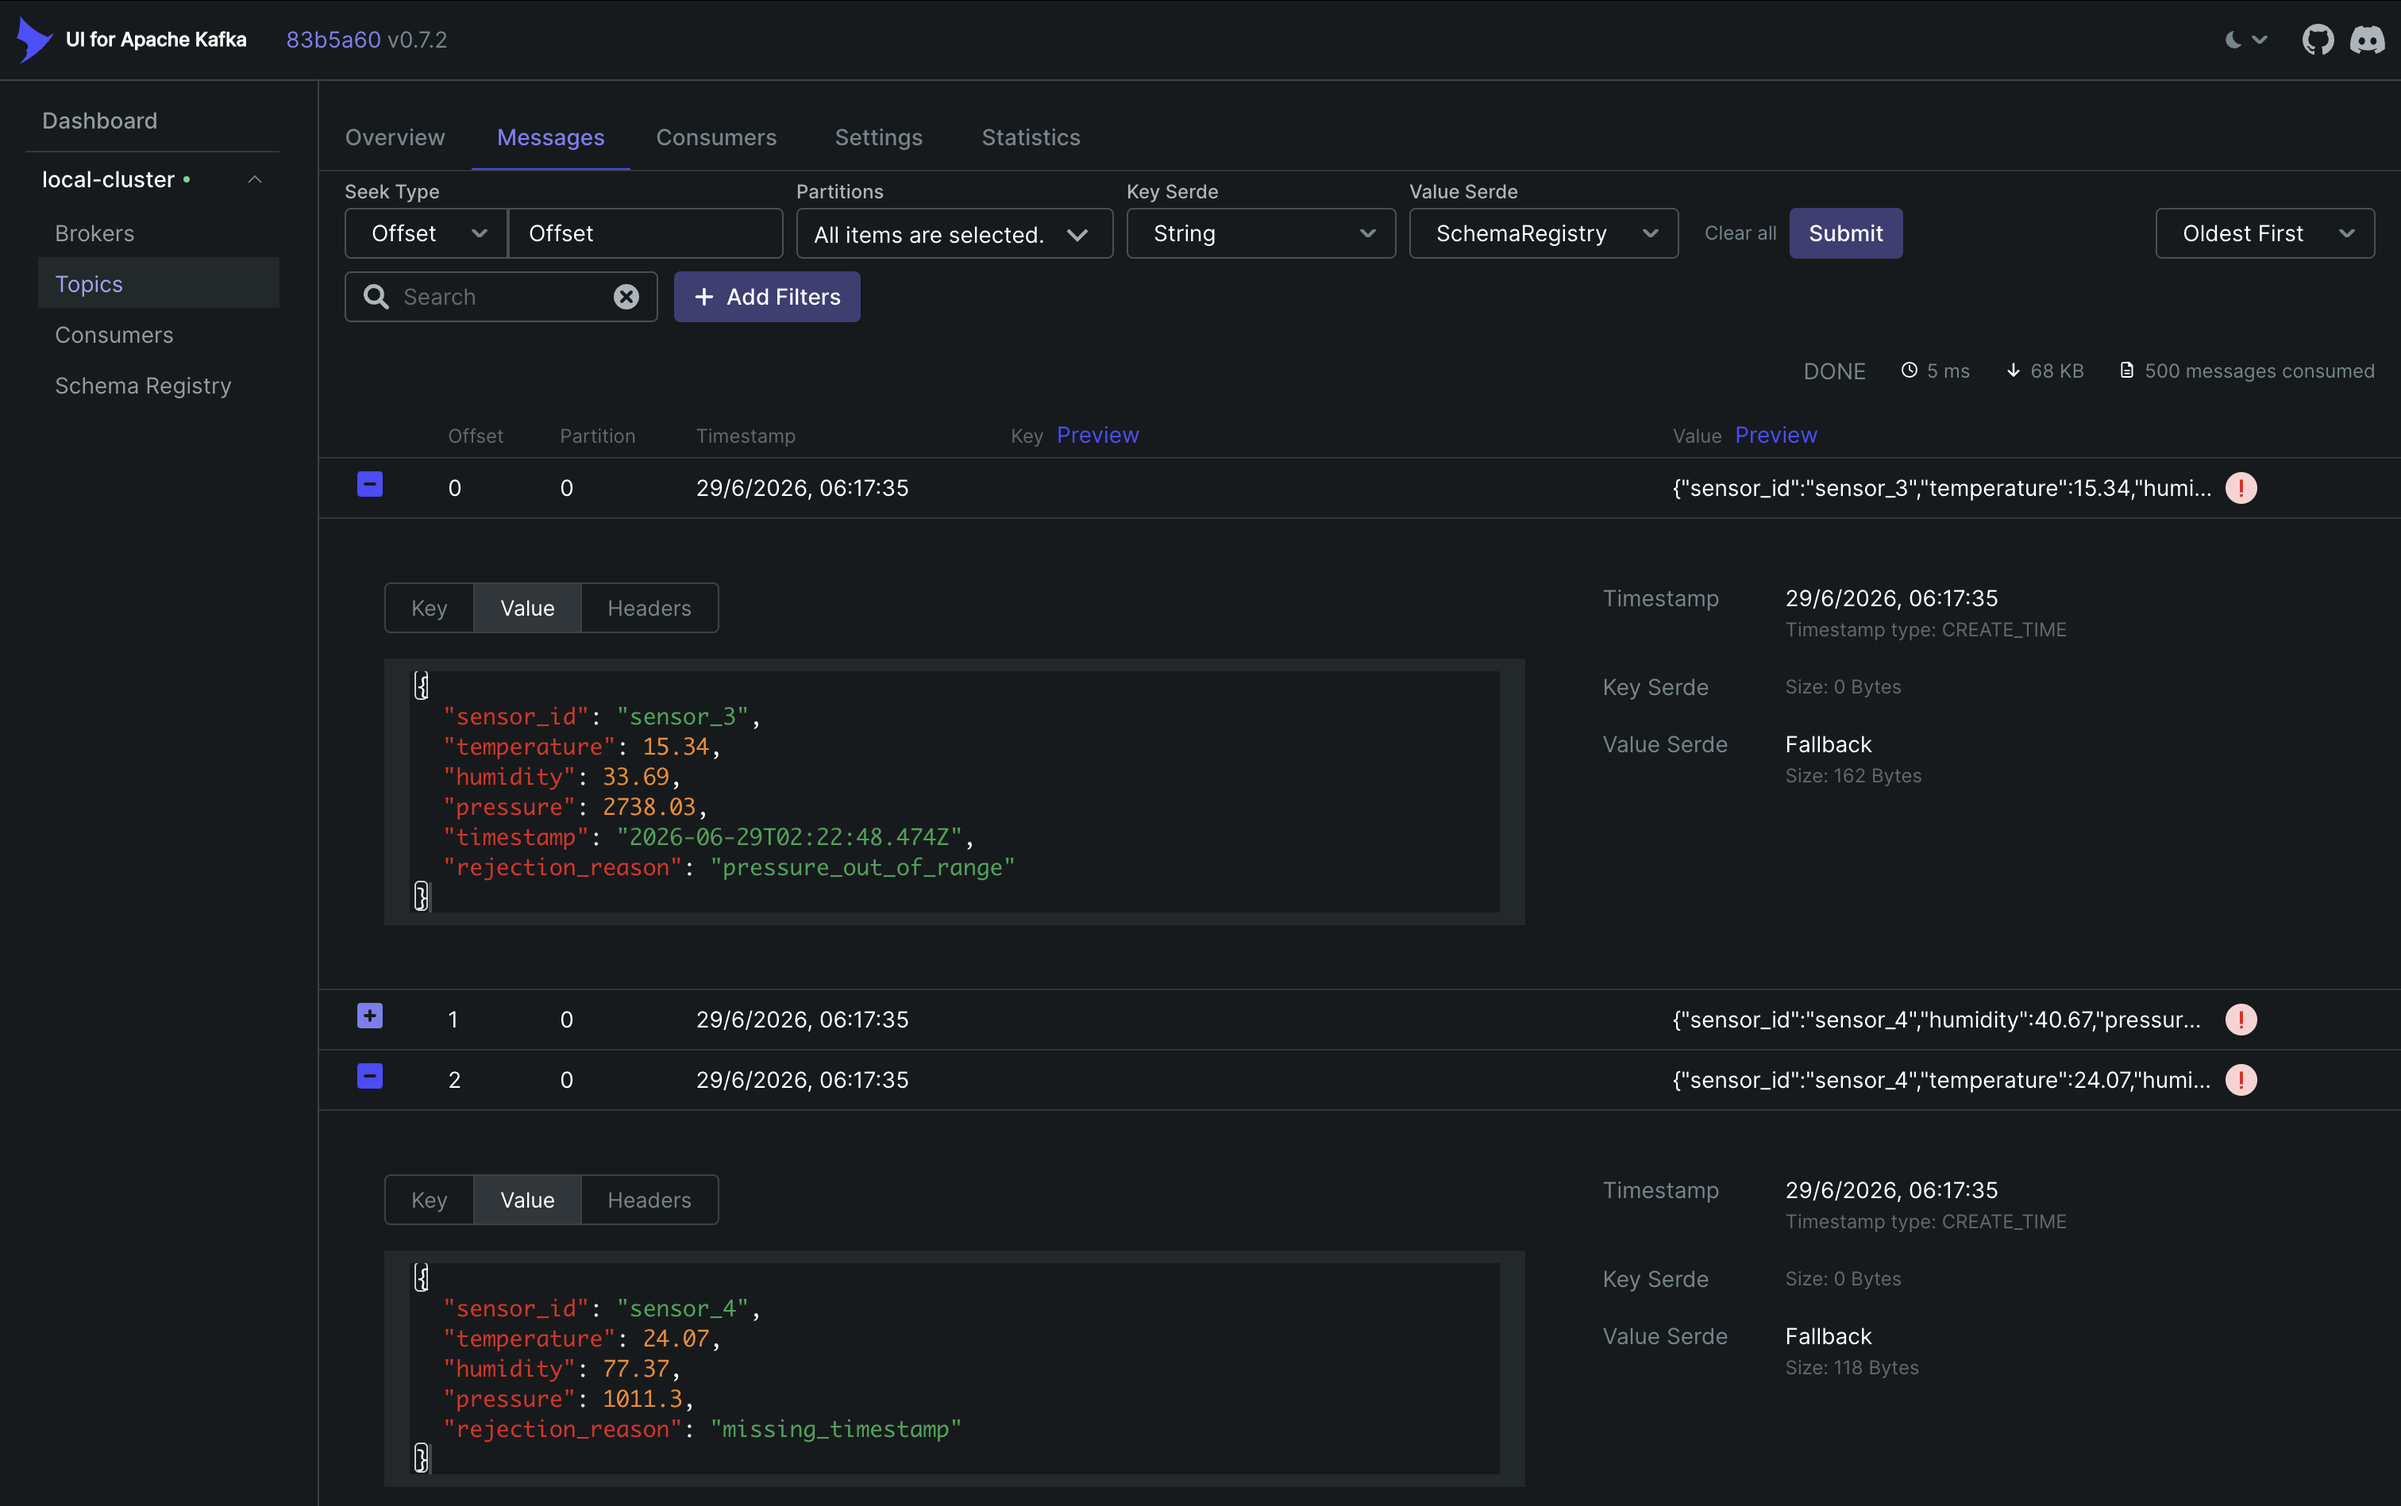
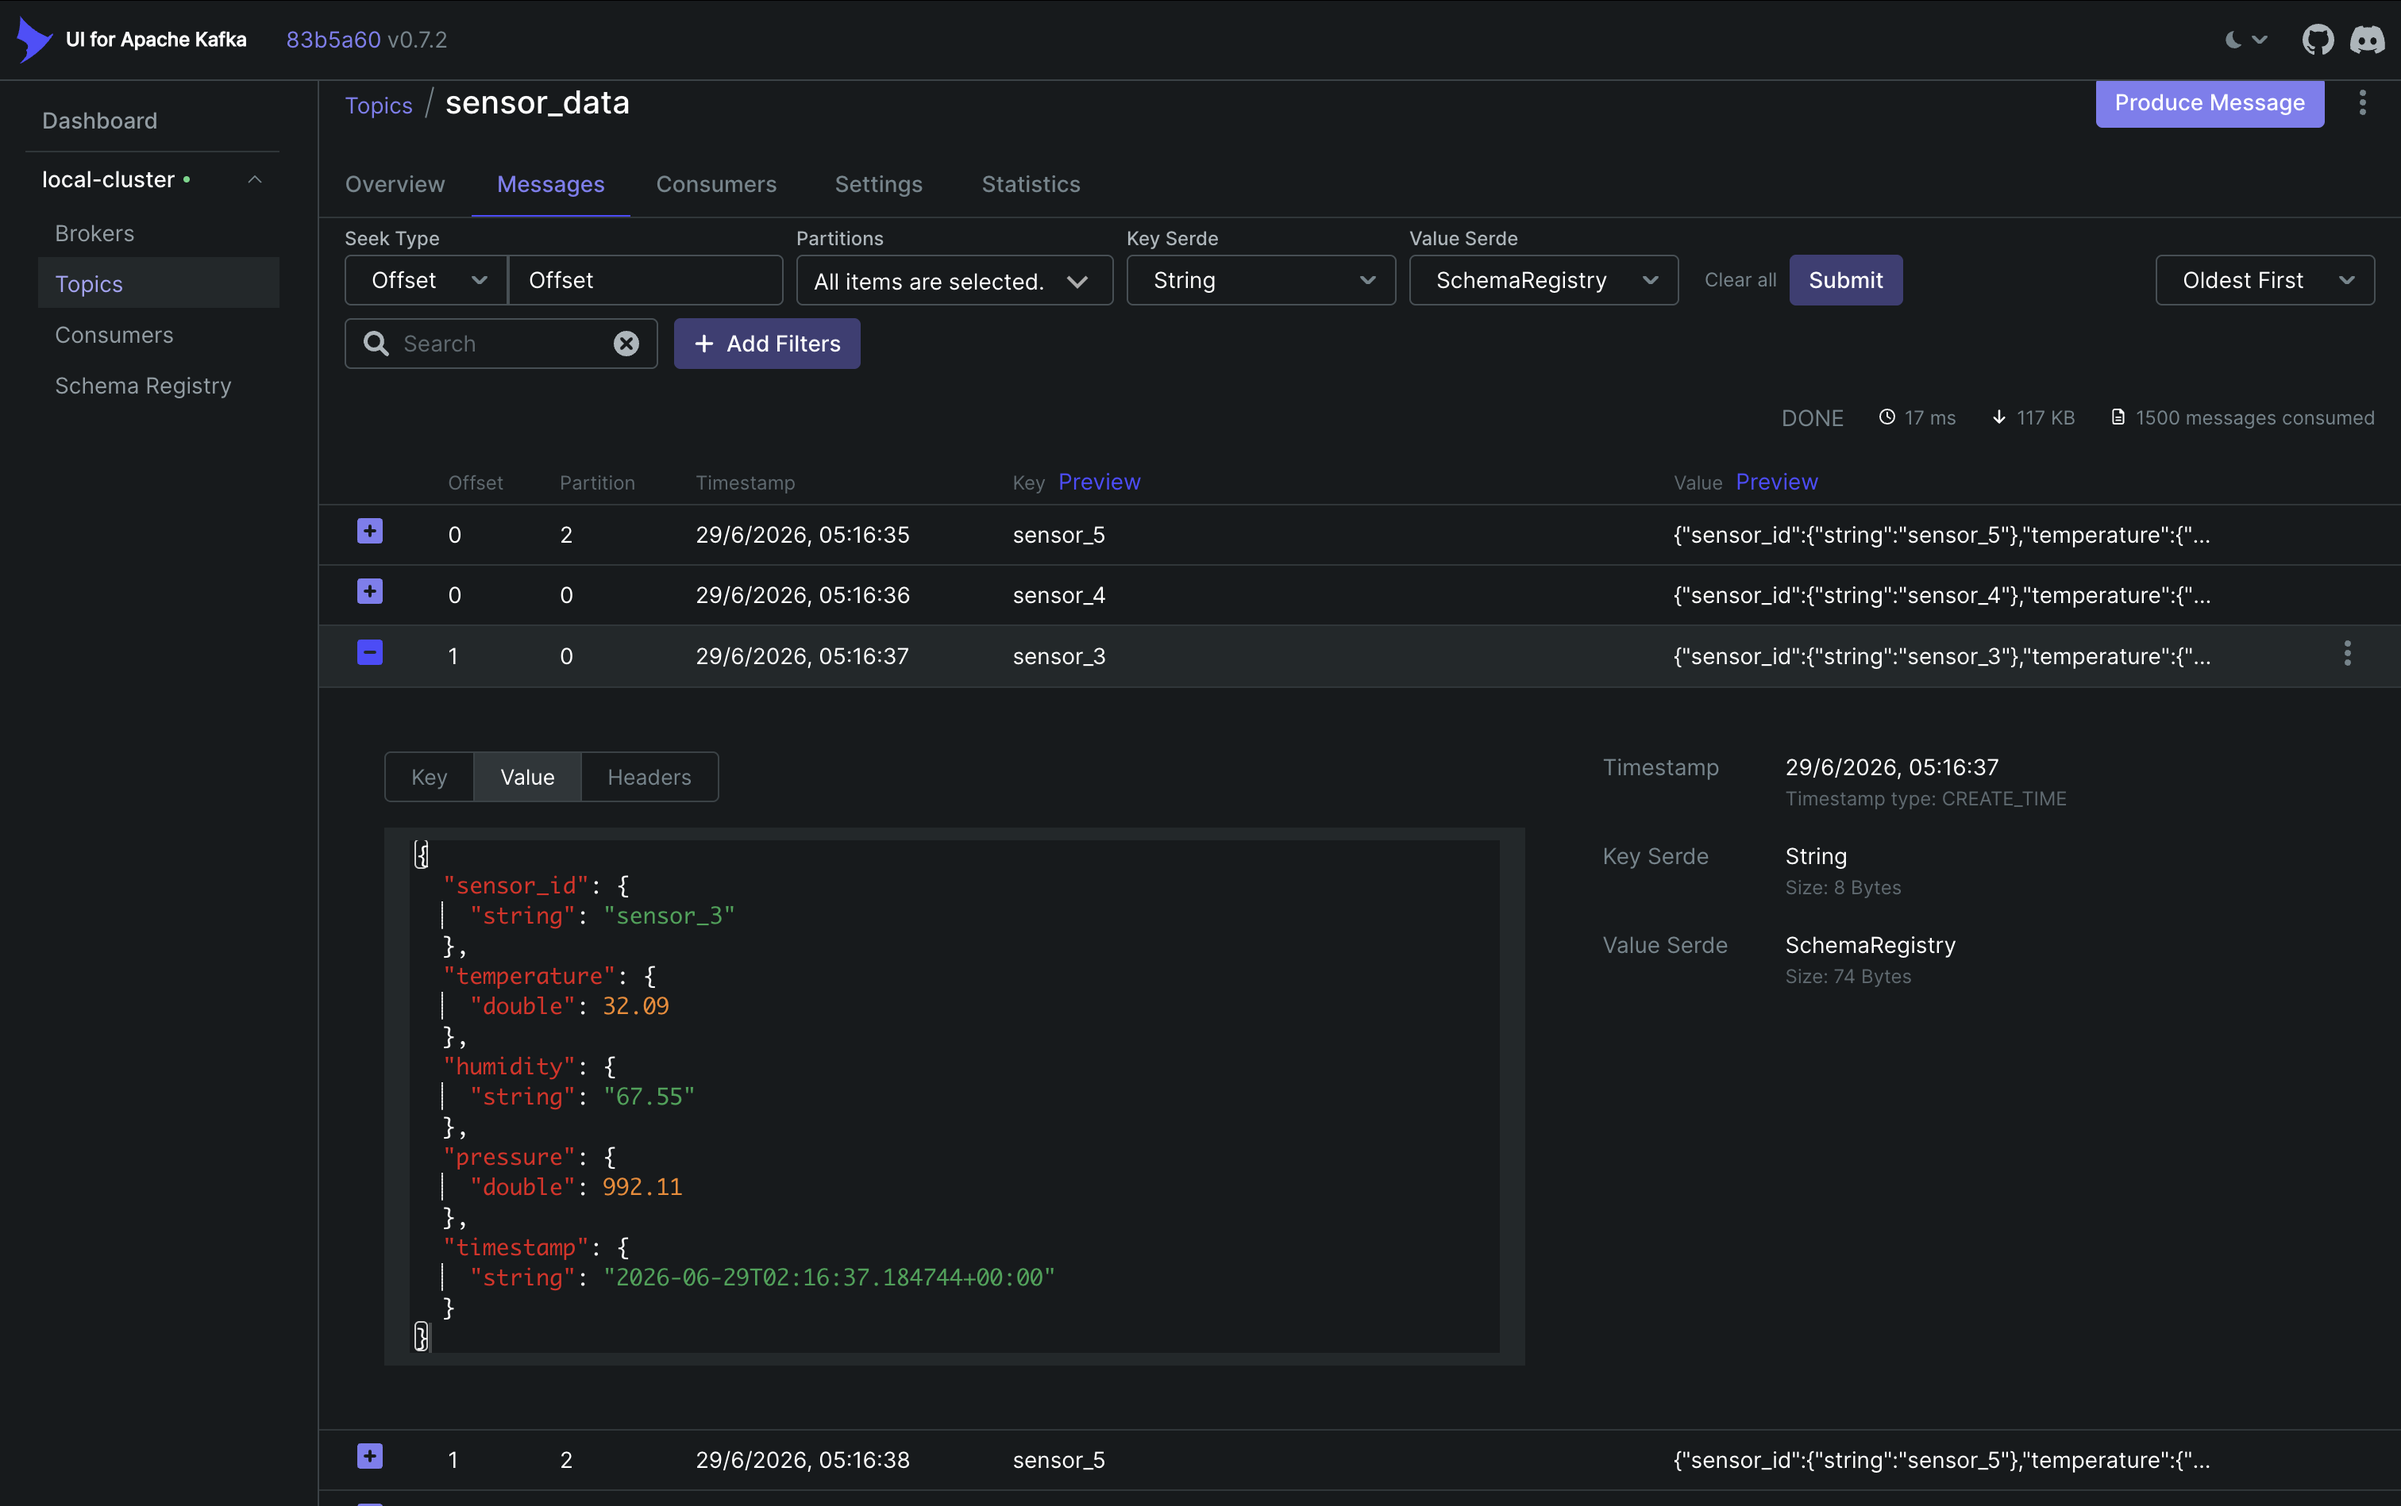
docs: fix Live Pipeline screenshots and tighten README accuracy
- Kafka: show the real sensor_data Avro topic + Schema Registry schema + the
  sensor_data_rejected DLQ (the old screenshot was the rejected topic mislabeled
  as sensor_data)
- Spark: use the Structured Streaming tab, not the Jobs tab; 'from Kafka'
- Redis: use the TS.MRANGE chart + the key list (was only the key list, captioned
  as a chart)
- Grafana: caption now matches (all-sensors panels + Sensor 1 gauges/pressure)
- GCP gallery: 'GKE Fleet dashboard' (the shot doesn't show Connect Gateway)
- Honesty pass: streaming stack only locally (BigQuery/dbt are cloud-only),
  GMP -> Cloud Monitoring (not Grafana, which renders no GMP data in the cloud),
  'same code and images' (not 'same manifests'), dbt targets real BigQuery
- Correct the AWS companion repo name + link (contract-driven-data-pipeline)

diff --git a/README.md b/README.md
@@ -19,10 +19,10 @@ This project simulates a fleet of IoT environmental sensors and processes their 
 
 It runs two ways from a single codebase:
 
-- 💻 **Locally** — the full stack on **Docker Compose**, for development and the test suite.
+- 💻 **Locally** — the full **streaming** stack on **Docker Compose** (Kafka, Spark, Redis, Grafana, with the data-quality & drift observability), for development and the test suite. *The BigQuery + dbt analytics layer is cloud-only.*
 - ☁ **In the cloud** — a **cloud-native, fully keyless, 100% Infrastructure-as-Code** deployment on **GKE Autopilot**, provisioned with **Terraform** and shipped by **GitHub Actions** (one-button deploy, zero stored credentials).
 
-> 🌍 This is the **GCP** half of a multi-cloud portfolio. Its companion, [`s3-spark-pg-etl`](https://github.com/theofanis-tsakanikas), provisions the same keyless-OIDC philosophy on **AWS**.
+> 🌍 This is the **GCP** half of a multi-cloud portfolio. Its companion, [`contract-driven-data-pipeline`](https://github.com/theofanis-tsakanikas/contract-driven-data-pipeline), applies the same keyless-OIDC philosophy on **AWS**.
 
 ---
 
@@ -61,7 +61,7 @@ flowchart LR
   R --> G["Grafana<br/>live dashboards"]
   BQ --> DBT["dbt marts<br/>CronJob every 2 min"]
   DBT --> LS["Looker Studio"]
-  SP -. /metrics .-> GMP["Managed Prometheus"] --> G
+  SP -. /metrics .-> GMP["Managed Prometheus"] --> CM["Cloud Monitoring"]
   G -->|"drift > 3σ"| SLACK["Slack"]
 ```
 
@@ -94,7 +94,7 @@ This is a portfolio project built to demonstrate **end-to-end, cloud-native data
 * **Analytics marts:** dbt staging + marts on BigQuery, refreshed every 2 minutes by a Kubernetes CronJob.
 * **Live observability:** Per-batch data-quality + drift metrics on a dedicated Grafana row, plus Spark JVM/throughput metrics via Managed Prometheus.
 * **Drift alerting:** Provisioned Grafana alert rules push a Slack notification when any metric drifts beyond 3σ.
-* **Two deployment targets:** Docker Compose locally; GKE Autopilot in the cloud — same manifests, same code.
+* **Two deployment targets:** the same application code and container images run locally via Docker Compose and in the cloud on GKE Autopilot (Kubernetes manifests).
 
 ---
 
@@ -103,22 +103,34 @@ This is a portfolio project built to demonstrate **end-to-end, cloud-native data
 A walk through the running stack, stage by stage.
 
 ### 1. Kafka — schema-governed ingestion
-Avro-encoded sensor readings landing on the `sensor_data` topic, browsable in Kafka-UI.
+Avro-encoded sensor readings land on the `sensor_data` topic, browsable in Kafka-UI (note the `SchemaRegistry` value serde).
 
-![Kafka messages](./images/kafka-messages.png)
+![sensor_data topic — Avro](./images/kafka-messages.png)
+
+Their structure is governed by the registered Avro schema (`SensorReading`) in the Schema Registry:
+
+![Schema Registry — SensorReading](./images/kafka-schema.png)
+
+Readings that fail validation aren't dropped — they're quarantined to the `sensor_data_rejected` dead-letter topic, each tagged with its `rejection_reason`:
+
+![sensor_data_rejected — dead-letter topic](./images/kafka-rejected.png)
 
 ### 2. Spark — Structured Streaming
-The Spark UI showing the streaming query processing micro-batches off Kafka.
+The Spark UI's **Structured Streaming** tab — the active streaming queries processing micro-batches from Kafka, with their input/processing rates and latest batch IDs.
 
 ![Spark Structured Streaming](./images/spark-streaming.png)
 
 ### 3. Redis TimeSeries — the hot path
-`TS.MRANGE` across all 5 sensors, charted in RedisInsight — the low-latency serving store Grafana reads from.
+`TS.MRANGE` across all 5 sensors' temperature, charted in RedisInsight — the low-latency serving store Grafana reads from.
 
-![Redis TimeSeries](./images/redis-timeseries.png)
+![Redis — TS.MRANGE chart](./images/redis-timeseries.png)
+
+Underneath: 15 labelled sensor series (5 sensors × 3 metrics) alongside the `dq:*` and `drift:*` observability series the job publishes each batch.
+
+![Redis — TimeSeries keys](./images/redis-keys.png)
 
 ### 4. Grafana — live sensor dashboard
-Network-wide temperature, per-sensor gauges, and a pressure trend, auto-refreshing every 5 seconds.
+All-sensors temperature and humidity, plus **Sensor 1**'s live gauges (current temperature/humidity) and pressure trend — auto-refreshing every 5 seconds.
 
 ![Grafana — IoT Sensors](./images/grafana-sensors.png)
 
@@ -147,7 +159,7 @@ The streaming job lands two raw tables in BigQuery (`telemetry.readings`, `telem
 | **Staging** | `stg_readings`, `stg_rejections` — typed, renamed views over the raw landing tables |
 | **Marts** | `sensor_minutely` (per-sensor/min aggregates), `accept_rate_minutely`, `rejections_by_reason`, `reading_volume` |
 
-In the cloud, a Kubernetes **CronJob runs `dbt build` every 2 minutes**, so the marts track the live stream; **Looker Studio** sits on top for BI-style exploration. Locally, the same models run via `make dbt-build`.
+In the cloud, a Kubernetes **CronJob runs `dbt build` every 2 minutes**, so the marts track the live stream; **Looker Studio** sits on top for BI-style exploration. The same models also run from your laptop via `make dbt-build` — dbt-bigquery targets BigQuery, so it needs GCP credentials (there's no local warehouse).
 
 ![BigQuery — readings table](./images/bigquery-readings.png)
 
@@ -161,7 +173,7 @@ Observability is treated as a first-class output of the pipeline, not an afterth
 
 ![Grafana — Data Quality & Drift](./images/grafana-data-quality.png)
 
-**Spark internals (system-level).** The Spark driver exposes Prometheus metrics; in the cloud **GKE Managed Service for Prometheus (GMP)** scrapes them, so streaming throughput, micro-batch latency, and JVM heap/GC are queryable from Cloud Monitoring and Grafana.
+**Spark internals (system-level).** The Spark driver exposes Prometheus metrics; in the cloud **GKE Managed Service for Prometheus (GMP)** scrapes them into **Cloud Monitoring**, where streaming throughput, micro-batch latency, and JVM heap/GC are queryable. (Locally, a self-hosted Prometheus backs the same Grafana **Pipeline Health** dashboard.)
 
 **Drift → Slack.** Grafana alerting is fully provisioned ([`infra/grafana/provisioning/alerting/`](infra/grafana/provisioning/alerting/)): when any metric drifts past **3σ**, the rule fires and posts to Slack — with a matching **resolved** message when it clears.
 
@@ -224,7 +236,7 @@ The result: the full pipeline running as pods on GKE Autopilot…
     <td align="center"><img src="./images/secret-manager.png" width="100%"><br><sub>Secret Manager</sub></td>
   </tr>
   <tr>
-    <td align="center"><img src="./images/connect-gateway.png" width="100%"><br><sub>Fleet + Connect Gateway</sub></td>
+    <td align="center"><img src="./images/connect-gateway.png" width="100%"><br><sub>GKE Fleet dashboard — 1 cluster, healthy</sub></td>
     <td align="center"><img src="./images/cloud-monitoring.png" width="100%"><br><sub>Cloud Monitoring (GMP) dashboards</sub></td>
   </tr>
 </table>
@@ -246,7 +258,7 @@ make cloud-down    # destroy the app layer (foundation + BigQuery + secrets pers
 
 ## 💻 Local Development (Docker Compose)
 
-The full stack also runs locally — ideal for development and to run the test suite without any cloud.
+The full **streaming** stack also runs locally — ideal for development and to run the test suite without any cloud. (The BigQuery + dbt analytics layer is cloud-only — it targets managed BigQuery.)
 
 ```bash
 # 1. One-time setup: venv, deps, data dirs, and a .env from the template
